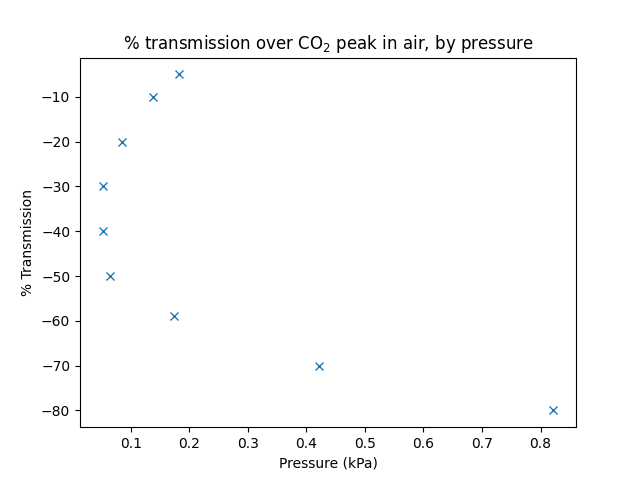
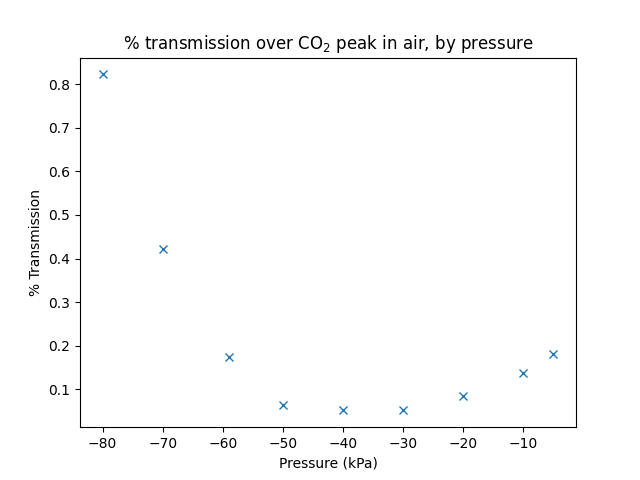
fixed CO2 transmission plots, plotted argon by resolution

diff --git a/src/analysis.py b/src/analysis.py
@@ -7,6 +7,7 @@ Author: Shiqi Xu
 """
 
 from pathlib import Path
+import re
 
 import numpy as np
 import matplotlib.pyplot as plt
@@ -73,7 +74,9 @@ if __name__ == "__main__":
             #     "% Transmission",
             #     y_lim=(0, 1),
             #     save_fig=True,
-            #     path_save=figure_path / "bkgd_ratio" / (str(sample.name)[17:-12] + ".png"),
+            #     path_save=figure_path
+            #     / "bkgd_ratio"
+            #     / (str(sample.name)[17:-13] + ".png"),
             # )
         # spectra.overlay_spectra(
         #     list_wavenumbers,
@@ -84,7 +87,9 @@ if __name__ == "__main__":
         #     pressure_labels,
         #     y_lim=(0, 1),
         #     save_fig=True,
-        #     path_save=figure_path / "bkgd_ratio" / (sample_types[i] + "_by_pressure.png"),
+        #     path_save=figure_path
+        #     / "bkgd_ratio"
+        #     / (sample_types[i] + "_by_pressure.png"),
         # )
 
         ## CO2 absorption peak: 2200-2500 cm^{-1}
@@ -116,19 +121,50 @@ if __name__ == "__main__":
         list_pressures, list_co2_transmission = [], []
         for j in range(len(list_cropped_wavenumbers)):
             co2_transmission = spectra.tot_transmission(
-                list_cropped_wavenumbers[j],
-                list_cropped_transmission[j],
-                2280,
-                2390
+                list_cropped_wavenumbers[j], list_cropped_transmission[j], 2280, 2390
             )
             list_co2_transmission.append(co2_transmission)
             list_pressures.append(int(pressure_labels[j][:-3]))
         # plt.figure()
-        # plt.plot(list_co2_transmission, list_pressures, "x")
-        # plt.title("% transmission over CO$_2$ peak in " + sample_types[i] + ", by pressure")
+        # plt.plot(list_pressures, list_co2_transmission, "x")
+        # plt.title(
+        #     "% transmission over CO$_2$ peak in " + sample_types[i] + ", by pressure"
+        # )
         # plt.xlabel("Pressure (kPa)")
         # plt.ylabel("% Transmission")
-        # plt.savefig(figure_path / "co2_absorption" / ("transmission_co2_peak_" + sample_types[i] + "_by_pressure.png"))
+        # plt.savefig(
+        #     figure_path
+        #     / "co2_absorption"
+        #     / ("transmission_co2_peak_" + sample_types[i] + "_by_pressure.png")
+        # )
         # plt.close()
 
-
+    ## exploring difference resolutions
+    res_filenames = [
+        "2022-01-21_run05_1.0res_argon_0kPa_sample.CSV",
+        "2022-01-21_run03_4.0res_argon_0kPa_sample.CSV",
+        "2022-01-21_run04_16.0res_argon_0kPa_sample.CSV",
+    ]
+    res_data_paths = [
+        Path.cwd() / "data" / "2022-01-21" / res_filenames[i]
+        for i in range(len(res_filenames))
+    ]
+    list_argon_wavenumbers, list_argon_intensities = [], []
+    for i in range(len(res_data_paths)):
+        argon_wavenumbers, argon_intensities = spectra.read_data(res_data_paths[i])
+        list_argon_wavenumbers.append(argon_wavenumbers)
+        list_argon_intensities.append(argon_intensities)
+    try:
+        Path.mkdir(figure_path / "resolution")
+    except OSError:
+        pass
+    # spectra.overlay_spectra(
+    #     list_argon_wavenumbers,
+    #     list_argon_intensities,
+    #     "Argon at 0 kPa, at different resolutions",
+    #     "Wavenumber (cm$^{-1}$)",
+    #     "Single-Beam Intensity (arbitrary units)",
+    #     ["1.0 resolution", "4.0 resolution", "16.0 resolution"],
+    #     save_fig=True,
+    #     path_save=figure_path / "resolution" / "argon_0kPa_by_resolution.png",
+    # )

diff --git a/src/first_plots_2022-01-21.py b/src/first_plots_2022-01-21.py
@@ -25,7 +25,7 @@ if __name__ == "__main__":
 
     bkgd_wavenumbers, bkgd_intensity = spectra.read_data(data_files[0])
 
-    figure_path = Path.cwd() / "outputs" / "2021-01-21"
+    figure_path = Path.cwd() / "outputs" / "first_plots_2021-01-21"
     try:
         Path.mkdir(figure_path)
     except OSError:
